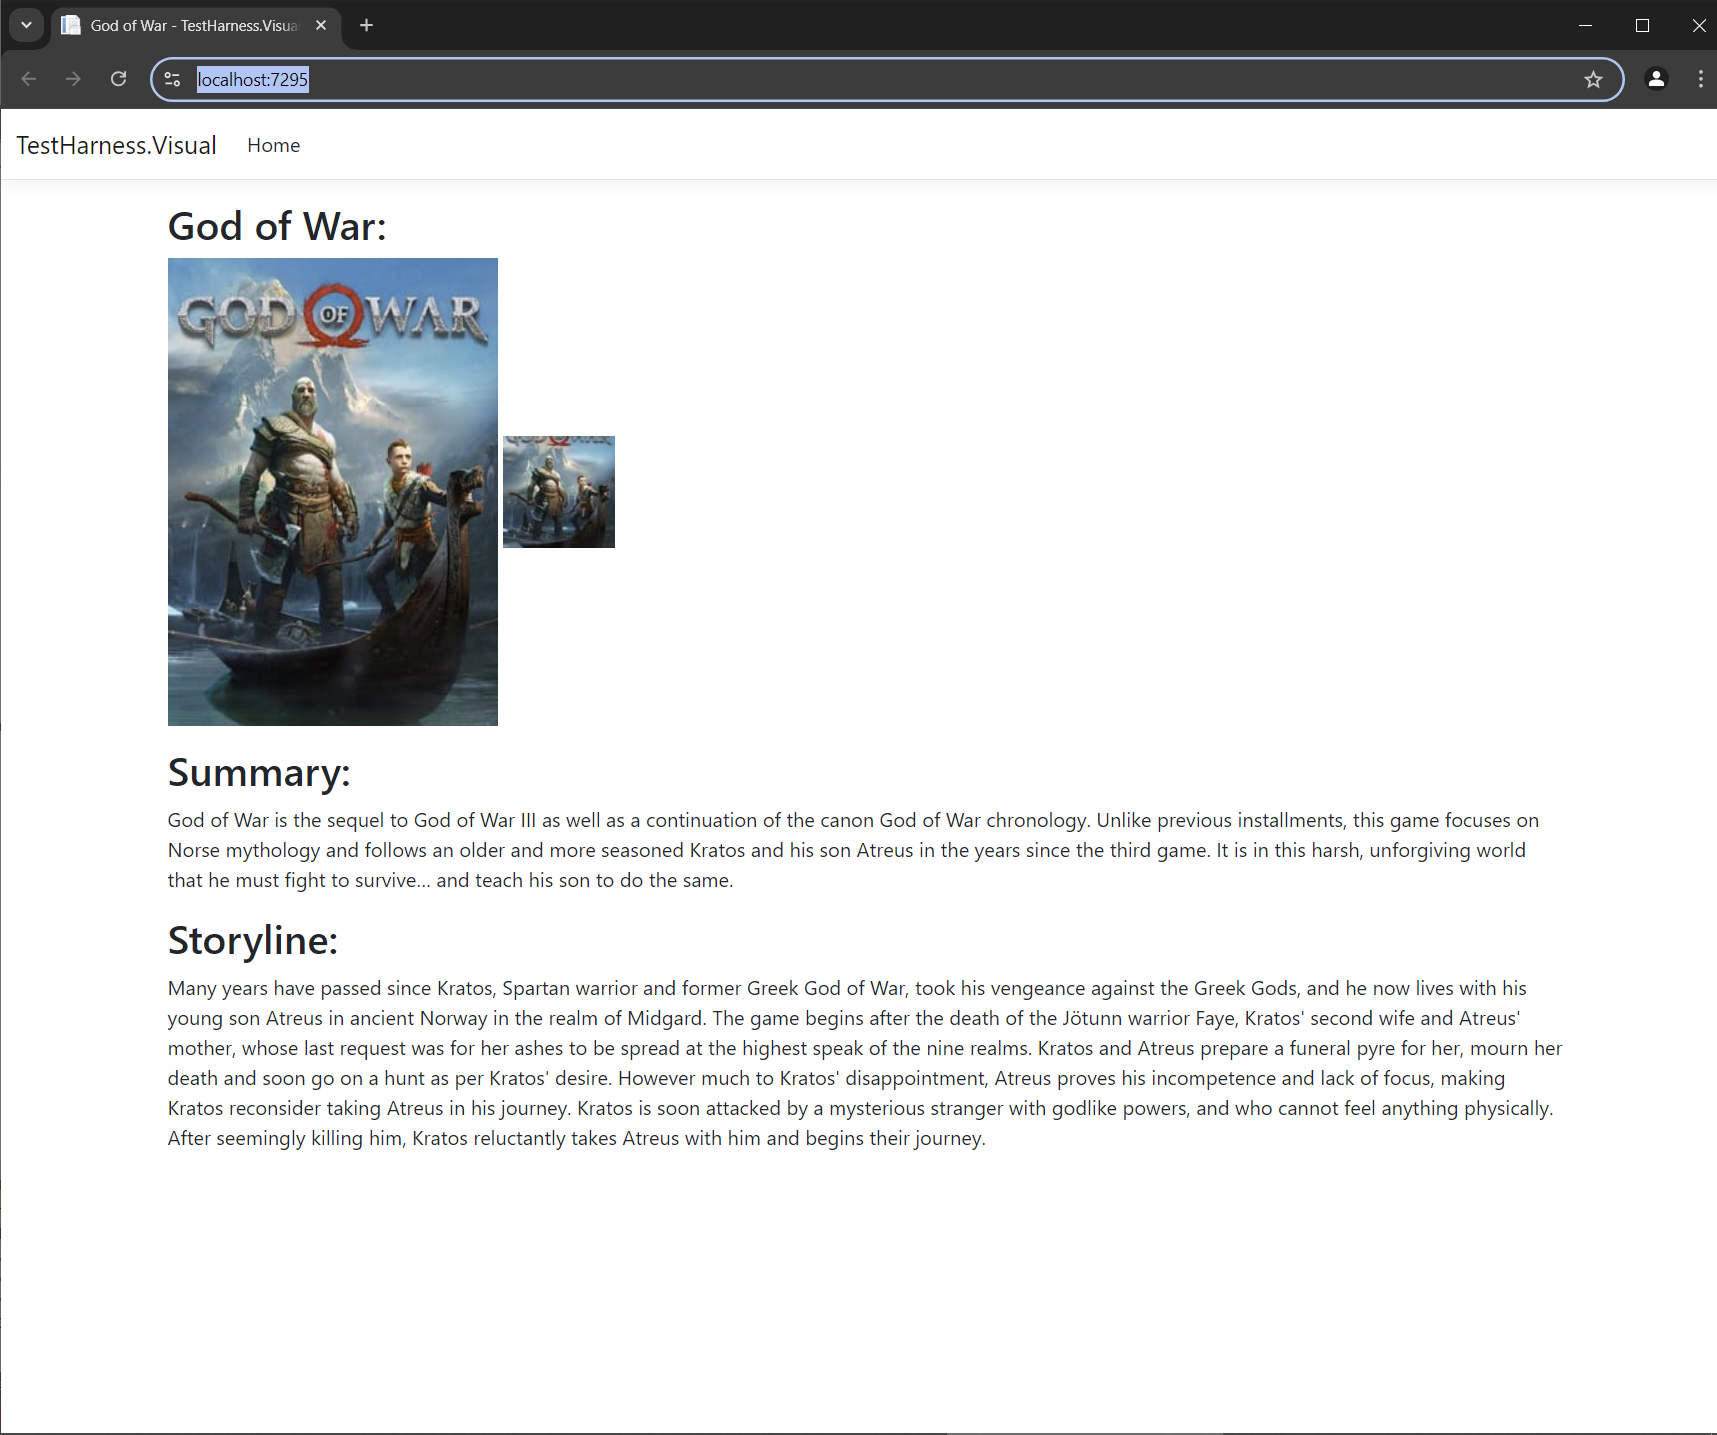
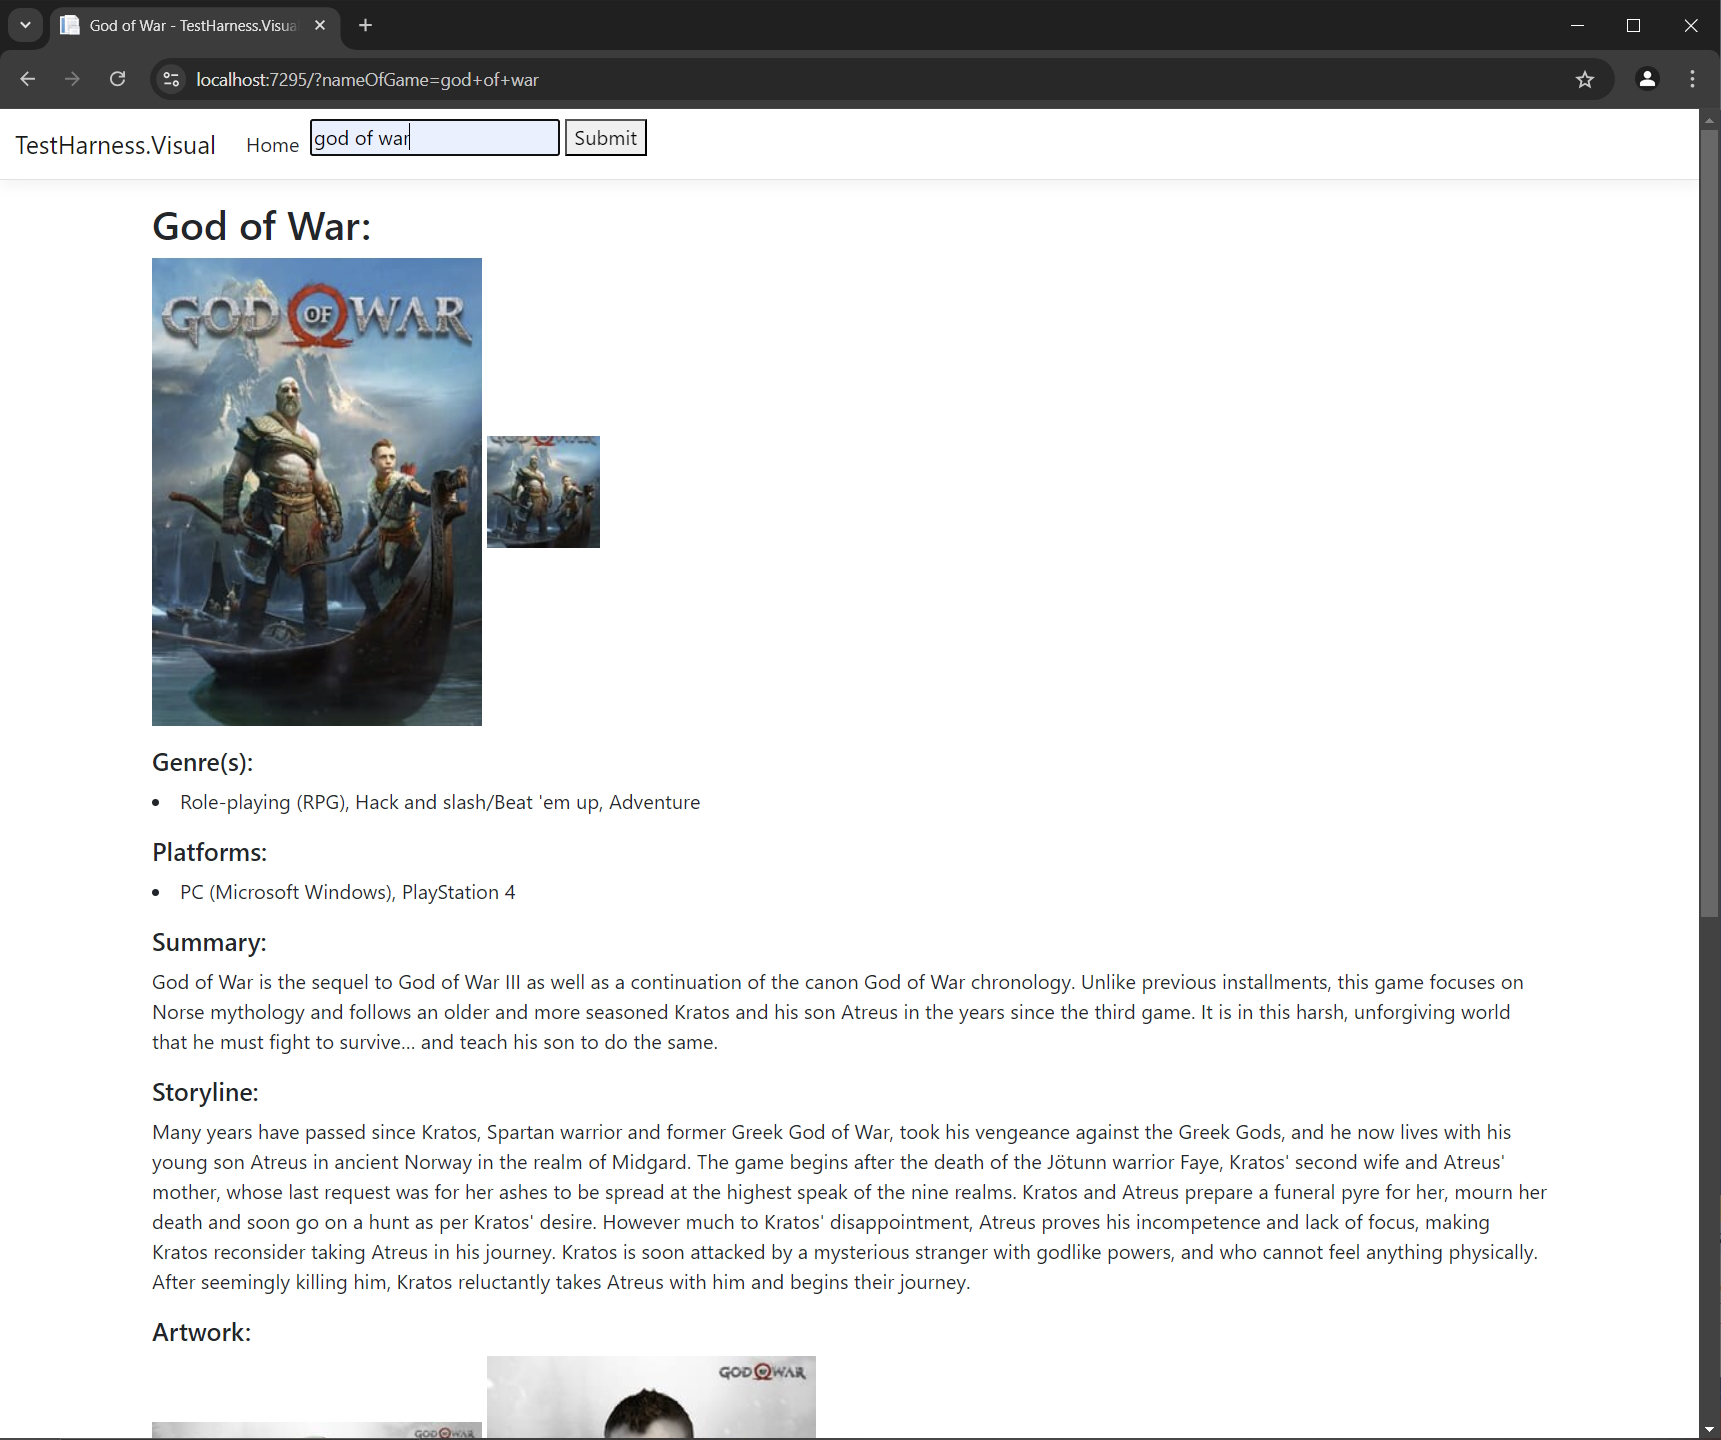
The search can now be configured to use a 'platform Id' to increase accuracy of results returned.  Additional endpoints also added and 'TestHarness.Visual' now shows genre and platform data.  Images updated.

Changed region(s): [[0.0, 0.0, 1.0, 1.0], [0.0926, 0.9812, 0.1543, 1.0]]

diff --git a/IgdbApi.Lib/Igdb.cs b/IgdbApi.Lib/Igdb.cs
@@ -18,52 +18,79 @@ namespace IgdbApi.Lib
         private const string _clientId = "PRIVATE";
         private const string _clientSecret = "PRIVATE";
 
-        public FullGameData GetAllDataOnAGame(string nameOfGame)
+        public FullGameData GetAllDataOnAGame(string nameOfGame, int platformId = 0)
         {
-            FullGameData fullGameData = new FullGameData();
-
-            List<Game> games = GetGamesByName(nameOfGame);
-
-            // Check for a full name match
-            fullGameData.Game = games.Where(x => x.name.ToLower() == nameOfGame.ToLower()).FirstOrDefault();
-
-            if (fullGameData.Game == null)
+            try
             {
-                // Check for a partial name match
-                fullGameData.Game = games.Where(x => x.name.ToLower().Contains(nameOfGame.ToLower())).FirstOrDefault();
-            }
+                FullGameData fullGameData = new FullGameData();
 
-            if (fullGameData.Game != null)
+                List<Game> games = GetGamesByName(nameOfGame);
+
+                if (platformId != 0)
+                {
+                    // Check for a full name match
+                    fullGameData.Game = games.Where(x => x.name.ToLower() == nameOfGame.ToLower() && x.platforms.Contains(platformId)).FirstOrDefault();
+
+                    if (fullGameData.Game == null)
+                    {
+                        // Check for a partial name match
+                        fullGameData.Game = games.Where(x => x.name.ToLower().Contains(nameOfGame.ToLower()) && x.platforms.Contains(platformId)).FirstOrDefault();
+                    }
+                }
+                else
+                {
+                    // Check for a full name match
+                    fullGameData.Game = games.Where(x => x.name.ToLower() == nameOfGame.ToLower()).FirstOrDefault();
+
+                    if (fullGameData.Game == null)
+                    {
+                        // Check for a partial name match
+                        fullGameData.Game = games.Where(x => x.name.ToLower().Contains(nameOfGame.ToLower())).FirstOrDefault();
+                    }
+                }
+
+                if (fullGameData.Game != null)
+                {
+                    fullGameData.GameDetails = GetGameById(fullGameData.Game.id.ToString());
+
+                    if (fullGameData.Game.involved_companies != null)
+                    {
+                        string involvedCompaniesIds = String.Join(",", fullGameData.Game.involved_companies);
+                        fullGameData.InvolvedCompanies = GetInvolvedCompanies(involvedCompaniesIds);
+                    }
+
+                    if (fullGameData.GameDetails[0].platforms != null)
+                    {
+                        string platformIds = String.Join(",", fullGameData.GameDetails[0].platforms);
+                        fullGameData.Platforms = GetPlatforms(platformIds);
+                    }
+
+                    if (fullGameData.GameDetails[0].genres != null)
+                    {
+                        string genreIds = String.Join(",", fullGameData.GameDetails[0].genres);
+                        fullGameData.Genres = GetGenres(genreIds);
+                    }
+
+                    if (fullGameData.GameDetails[0].artworks != null)
+                    {
+                        string artworkIds = String.Join(",", fullGameData.GameDetails[0].artworks);
+                        fullGameData.Artworks = GetArtworks(artworkIds);
+                        fullGameData.LargeArtworkUrls = _processImages.ProcessArrayOfImages(fullGameData.Artworks);
+                    }
+
+                    if (fullGameData.GameDetails[0].cover != 0)
+                    {
+                        fullGameData.Covers = GetCover(fullGameData.GameDetails[0].cover.ToString());
+                        fullGameData.LargeCoverUrl = _processImages.ProcessCoverUrl(fullGameData.Covers[0].url);
+                    }
+                }
+
+                return fullGameData;
+            }
+            catch (Exception ex)
             {
-                fullGameData.GameDetails = GetGameById(fullGameData.Game.id.ToString());
-
-                if (fullGameData.Game.involved_companies != null)
-                {
-                    string involvedCompaniesIds = String.Join(",", fullGameData.Game.involved_companies);
-                    fullGameData.InvolvedCompanies = GetInvolvedCompanies(involvedCompaniesIds);
-                }
-
-                if (fullGameData.GameDetails[0].platforms != null)
-                {
-                    string platformIds = String.Join(",", fullGameData.GameDetails[0].platforms);
-                    fullGameData.Platforms = GetPlatforms(platformIds);
-                }
-
-                if (fullGameData.GameDetails[0].artworks != null)
-                {
-                    string artworkIds = String.Join(",", fullGameData.GameDetails[0].artworks);
-                    fullGameData.Artworks = GetArtworks(artworkIds);
-                    fullGameData.LargeArtworkUrls = _processImages.ProcessArrayOfImages(fullGameData.Artworks);
-                }
-
-                if(fullGameData.GameDetails[0].cover != 0)
-                {
-                    fullGameData.Covers = GetCover(fullGameData.GameDetails[0].cover.ToString());
-                    fullGameData.LargeCoverUrl = _processImages.ProcessCoverUrl(fullGameData.Covers[0].url);
-                }
+                return null;
             }
-
-            return fullGameData;
         }
 
         /// <summary>
@@ -115,7 +142,7 @@ namespace IgdbApi.Lib
         {
             List<Game> games = new List<Game>();
 
-            string response = CallIgdbApi(Endpoints.Games, "fields name, involved_companies; search \"" + nameOfGame + "\";");
+            string response = CallIgdbApi(Endpoints.Games, "fields name, platforms, involved_companies; search \"" + nameOfGame + "\";");
 
             games = JsonConvert.DeserializeObject<List<Game>>(response);
 
@@ -226,6 +253,22 @@ namespace IgdbApi.Lib
             searchResult = JsonConvert.DeserializeObject<List<SearchResult>>(response);
 
             return searchResult;
+        }
+
+        /// <summary>
+        /// - Calls the 'genre' endpoint
+        /// </summary>
+        /// <param name="genreIds"></param>
+        /// <returns></returns>
+        public List<Genre> GetGenres(string genreIds)
+        {
+            List<Genre> genres = new List<Genre>();
+
+            string response = CallIgdbApi(Endpoints.Genres, "fields *; where id = (" + genreIds + ");");
+
+            genres = JsonConvert.DeserializeObject<List<Genre>>(response);
+
+            return genres;
         }
     }
 }

diff --git a/TestHarness.Console/Run.cs b/TestHarness.Console/Run.cs
@@ -1,4 +1,5 @@
 using IgdbApi.Lib;
+using IgdbApi.Lib.Enum;
 
 namespace TestHarness.Console
 {
@@ -9,7 +10,7 @@ namespace TestHarness.Console
             Igdb igdb = new Igdb();
 
             igdb.GetTwitchAccessToken();
-            igdb.GetAllDataOnAGame("fallout: new vegas");
+            igdb.GetAllDataOnAGame("rainbow islands", (int)PlatformEnum.Amiga);
 
             System.Console.ReadLine();
         }

diff --git a/IgdbApi.Lib/Models/Genre.cs b/IgdbApi.Lib/Models/Genre.cs
@@ -1,0 +1,13 @@
+namespace IgdbApi.Lib.Models
+{
+    public class Genre
+    {
+        public int id { get; set; }
+        public int created_at { get; set; }
+        public string name { get; set; }
+        public string slug { get; set; }
+        public int updated_at { get; set; }
+        public string url { get; set; }
+        public string checksum { get; set; }
+    }
+}

diff --git a/IgdbApi.Lib/Enum/PlatformEnum.cs b/IgdbApi.Lib/Enum/PlatformEnum.cs
@@ -1,0 +1,19 @@
+namespace IgdbApi.Lib.Enum
+{
+    public enum PlatformEnum : int
+    {
+        PC = 6,
+        Mac = 14,
+        Amiga = 16,
+        AtariST = 63,
+        Spectrum = 26,
+        C64 = 15,
+        Amstrad = 25,
+        Xbox360 = 12,
+        XboxOne = 49,
+        PS2 = 8,
+        PS3 = 9,
+        PS4 = 48,
+        PS5 = 167,
+    }
+}

diff --git a/IgdbApi.Lib/Class/Endpoints.cs b/IgdbApi.Lib/Class/Endpoints.cs
@@ -8,5 +8,7 @@
         public const string InvolvedCompanies = "/involved_companies";
         public const string Artworks = "/artworks";
         public const string Search = "/search";
+        public const string Genres = "/genres";
+        public const string ReleaseDates = "/release_dates";
     }
 }

diff --git a/IgdbApi.Lib/Models/FullGameData.cs b/IgdbApi.Lib/Models/FullGameData.cs
@@ -10,5 +10,6 @@
         public List<Artworks> Artworks { get; set; }
         public string LargeCoverUrl { get; set; }
         public List<string> LargeArtworkUrls { get; set; }
+        public List<Genre> Genres { get; set; } 
     }
 }

diff --git a/IgdbApi.Lib/Models/Game.cs b/IgdbApi.Lib/Models/Game.cs
@@ -5,5 +5,6 @@
         public int id { get; set; }
         public int[] involved_companies { get; set; }
         public string name { get; set; }
+        public int[] platforms { get; set; }
     }
 }
